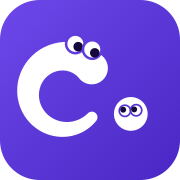
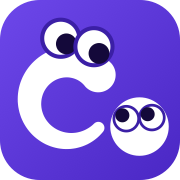
feat(web): redraw the brand mark as two teammates with big eyes (#377)
The eyes added in #370 were about a tenth of the tile and vanished at
tab and sidebar sizes. Redraw the mark so it reads at 16px: a slightly
smaller C and a larger round buddy, each with big eyes looking at the
other, to show collaboration. Applied to logo.svg, the landing page
mark, and the touch icon; bump the favicon cache key.

Changed region(s): [[0.0833, 0.0833, 0.6667, 0.8333], [0.6111, 0.5278, 0.9444, 0.8889]]

diff --git a/apps/web/src/routes/__root.tsx b/apps/web/src/routes/__root.tsx
@@ -35,7 +35,7 @@ export const Route = createRootRouteWithContext<{ queryClient: QueryClient }>()(
     links: [
       {
         rel: "icon",
-        href: "/logo.svg?v=coforge-eyes",
+        href: "/logo.svg?v=coforge-co",
         type: "image/svg+xml",
       },
       {
